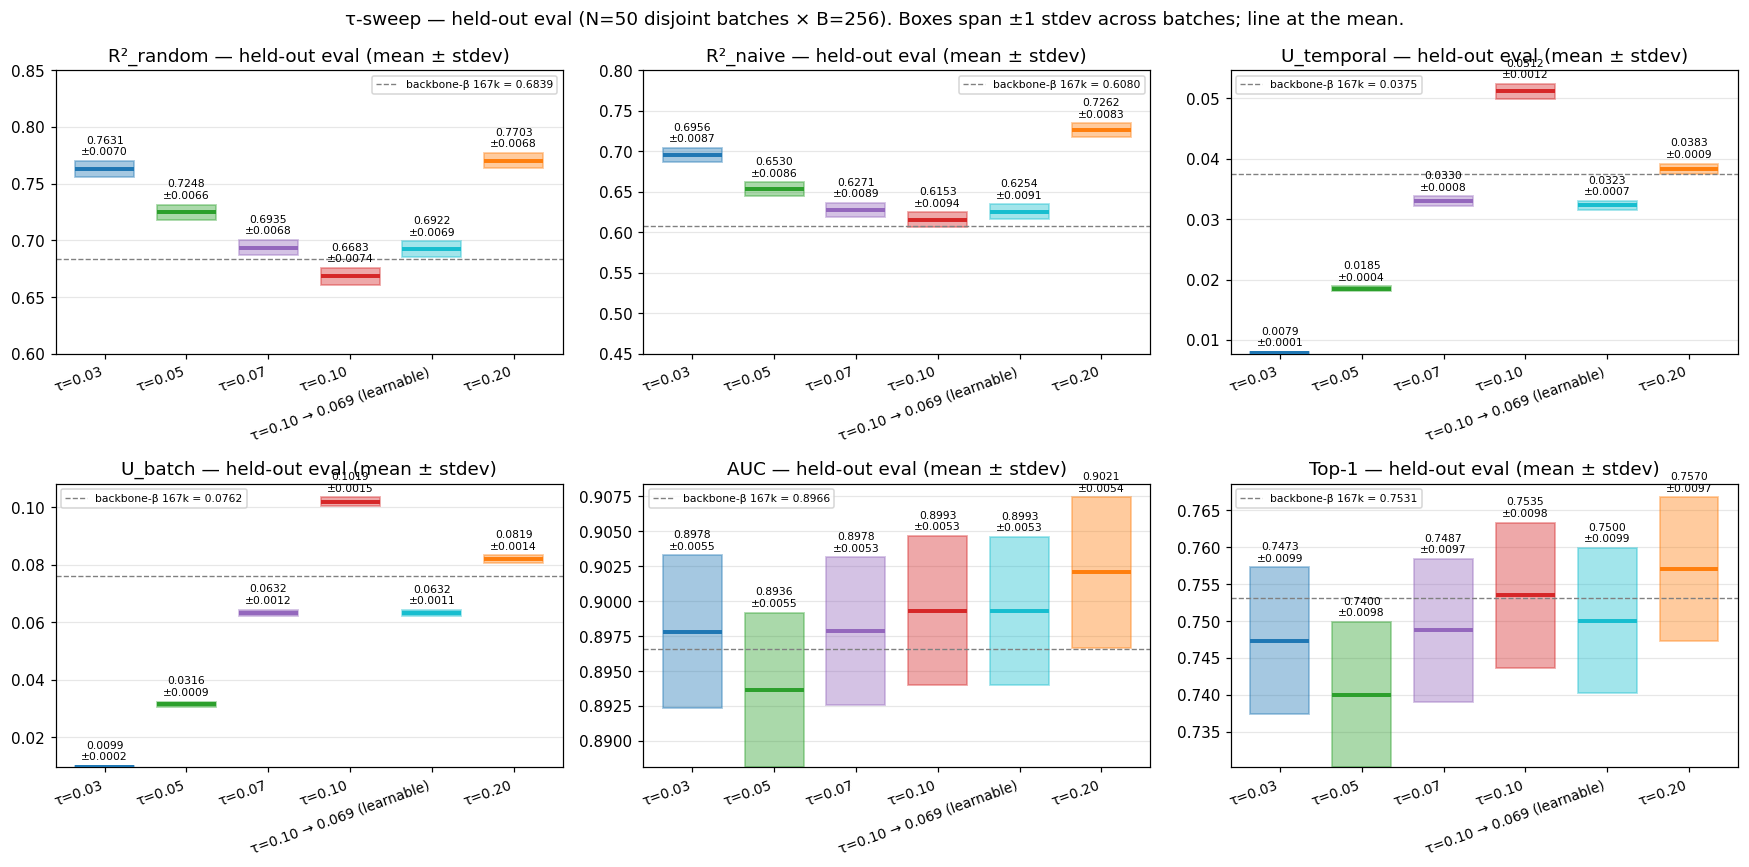
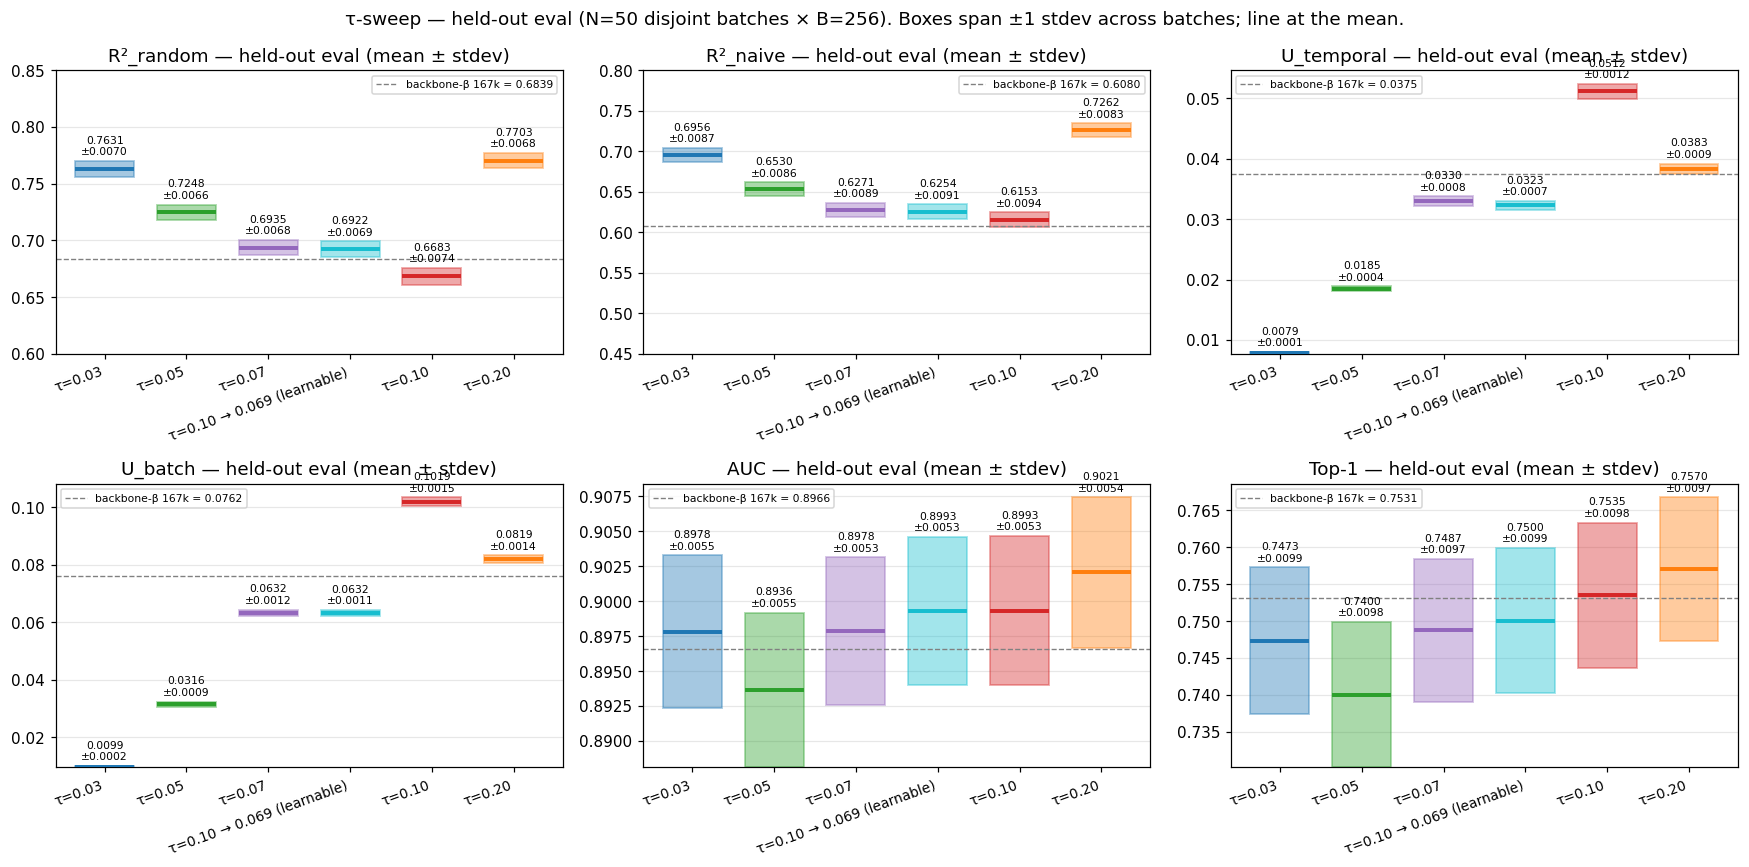
plot(tau-sweep): place learnable arm at converged-τ position; τ=0.50 launcher
- Plot ARMS reorder: learnable-τ arm moved to between τ=0.07 and τ=0.10.
  Behaviour matches its converged value (≈ 0.069 ≈ τ=0.07), not its
  init (0.10), so visually positioning it adjacent to τ=0.07 makes the
  fixed-vs-learnable comparison readable. Label still leads with init
  (per the project rule "label by configured input").
- RESULTS.md held-out table reordered to match. Caption updated.
- Verdict trimmed: dropped speculation about a wider-init learnable-τ
  sweep (deprioritised in favour of fixed τ-sweep extension above 0.20).
- New launcher: `run_tau_0_50_elisa.sh` — same recipe as the other
  τ-sweep arms, only --tau differs (0.50). Will run on elisa GPU 1
  after `learnable_0_20` completes.
- Open list updated: τ=0.30 (in flight on vast DC), τ=0.50 (queued
  next on elisa), τ=0.80 (queued after).

«Agent Opus 4.7 (1M context) writing»

diff --git a/experiments/2026-05-08_exp_tau_sweep/scripts/plot_tau_sweep_multisample.py b/experiments/2026-05-08_exp_tau_sweep/scripts/plot_tau_sweep_multisample.py
@@ -26,18 +26,17 @@ DEFAULT_CSV = REPO / "experiments/2026-05-08_exp_tau_sweep/results/tau_sweep_met
 OUT = REPO / "experiments/2026-05-08_exp_tau_sweep/plots/tau_sweep_eval_multisample.png"
 OUT.parent.mkdir(parents=True, exist_ok=True)
 
-# Display arms in τ-numerical order with τ=0.10 and learnable_τ_init0.10
-# adjacent (they start from the same τ at init / nominal training value, so
-# placing them next to each other in the legend / x-axis order makes the
-# fixed-vs-learnable comparison readable). Single τ=0.20 entry uses the v2
+# Display arms in τ-numerical order, with the learnable-τ arm placed
+# adjacent to its CONVERGED value (τ ≈ 0.069 ≈ τ=0.07) — its behaviour
+# matches its converged τ, not its init. Single τ=0.20 entry uses the v2
 # checkpoint (the run that has both FINAL.pth and full trajectory CSV).
 ARMS = [
-    ("τ=0.03",            "tau_sweep_0_03",           "#1f77b4"),
-    ("τ=0.05",            "tau_sweep_0_05",           "#2ca02c"),
-    ("τ=0.07",            "tau_sweep_0_07",           "#9467bd"),
-    ("τ=0.10",            "tau_sweep_0_10",           "#d62728"),
+    ("τ=0.03",                     "tau_sweep_0_03",           "#1f77b4"),
+    ("τ=0.05",                     "tau_sweep_0_05",           "#2ca02c"),
+    ("τ=0.07",                     "tau_sweep_0_07",           "#9467bd"),
     ("τ=0.10 → 0.069 (learnable)", "tau_sweep_learnable_0_10", "#17becf"),
-    ("τ=0.20",            "tau_sweep_0_20_v2",        "#ff7f0e"),
+    ("τ=0.10",                     "tau_sweep_0_10",           "#d62728"),
+    ("τ=0.20",                     "tau_sweep_0_20_v2",        "#ff7f0e"),
 ]
 
 BETA = dict(r2_random=0.6839, r2_naive=0.6080, u_temporal=0.0375,

diff --git a/experiments/2026-05-08_exp_tau_sweep/scripts/plot_tau_sweep_v2.py b/experiments/2026-05-08_exp_tau_sweep/scripts/plot_tau_sweep_v2.py
@@ -28,20 +28,22 @@ SYNC_LEARN = REPO / "sync_tau_sweep_learnable/checkpoints"
 OUT_TRAJ = REPO / "experiments/2026-05-08_exp_tau_sweep/plots/tau_sweep_v2_trajectories.png"
 OUT_TRAJ.parent.mkdir(parents=True, exist_ok=True)
 
-# Arms in numerical-τ order with τ=0.10 and learnable_τ_init0.10 adjacent.
+# Arms in numerical-τ order, with the learnable-τ arm placed adjacent to
+# its CONVERGED value (τ ≈ 0.069 ≈ τ=0.07) — its behaviour matches its
+# converged τ, not its init.
 # (display_label, run_name, color, csv_path)
 ARMS = [
-    ("τ=0.03",            "tau_sweep_0_03",           "#1f77b4",
+    ("τ=0.03",                     "tau_sweep_0_03",           "#1f77b4",
      SYNC / "tau_sweep_0_03_losses.csv"),
-    ("τ=0.05",            "tau_sweep_0_05",           "#2ca02c",
+    ("τ=0.05",                     "tau_sweep_0_05",           "#2ca02c",
      SYNC / "tau_sweep_0_05_losses.csv"),
-    ("τ=0.07",            "tau_sweep_0_07",           "#9467bd",
+    ("τ=0.07",                     "tau_sweep_0_07",           "#9467bd",
      SYNC / "tau_sweep_0_07_losses.csv"),
-    ("τ=0.10",            "tau_sweep_0_10",           "#d62728",
-     SYNC / "tau_sweep_0_10_losses.csv"),
     ("τ=0.10 → 0.069 (learnable)", "tau_sweep_learnable_0_10", "#17becf",
      SYNC_LEARN / "tau_sweep_learnable_0_10_losses.csv"),
-    ("τ=0.20",            "tau_sweep_0_20_v2",        "#ff7f0e",
+    ("τ=0.10",                     "tau_sweep_0_10",           "#d62728",
+     SYNC / "tau_sweep_0_10_losses.csv"),
+    ("τ=0.20",                     "tau_sweep_0_20_v2",        "#ff7f0e",
      SYNC_V2 / "tau_sweep_0_20_v2_losses.csv"),
 ]
 

diff --git a/experiments/2026-05-08_exp_tau_sweep/RESULTS.md b/experiments/2026-05-08_exp_tau_sweep/RESULTS.md
@@ -97,16 +97,17 @@ learnable) above the sharper-τ pack. R²_random and R²_naive show
 ![multisample](plots/tau_sweep_eval_multisample.png)
 
 Six metric panels, one box per arm. Boxes span ±1 stdev across the 50
-batches; the line is at the mean. Arms are placed left-to-right τ=0.03
-→ 0.05 → 0.07 → 0.10 → learnable_τ_init0.10 → 0.20.
+batches; the line is at the mean. Arms are placed left-to-right by τ
+value, with the learnable-τ arm next to its converged value (≈ 0.07,
+not its 0.10 init): τ=0.03 → 0.05 → 0.07 → learnable → 0.10 → 0.20.
 
 | backbone                 | τ            | R²_random           | R²_naive            | U_t                 | U_b                 | AUC                 | Top-1               |
 |--------------------------|--------------|---------------------|---------------------|---------------------|---------------------|---------------------|---------------------|
 | tau_sweep_0_03           | 0.03         | 0.7631 ± 0.0070     | 0.6956 ± 0.0087     | 0.0079 ± 0.0001     | 0.0099 ± 0.0002     | 0.8978 ± 0.0055     | 0.7473 ± 0.0099     |
 | tau_sweep_0_05           | 0.05         | 0.7248 ± 0.0066     | 0.6530 ± 0.0086     | 0.0185 ± 0.0004     | 0.0316 ± 0.0009     | 0.8936 ± 0.0055     | 0.7400 ± 0.0098     |
 | tau_sweep_0_07           | 0.07         | 0.6935 ± 0.0068     | 0.6271 ± 0.0089     | 0.0330 ± 0.0008     | 0.0632 ± 0.0012     | 0.8978 ± 0.0053     | 0.7487 ± 0.0097     |
-| tau_sweep_0_10           | 0.10         | 0.6683 ± 0.0074     | 0.6153 ± 0.0094     | **0.0512 ± 0.0012** | **0.1019 ± 0.0015** | 0.8993 ± 0.0053     | 0.7535 ± 0.0098     |
 | tau_sweep_learnable_0_10 | 0.10 → 0.069 | 0.6922 ± 0.0069     | 0.6254 ± 0.0091     | 0.0323 ± 0.0007     | 0.0632 ± 0.0011     | 0.8993 ± 0.0053     | 0.7500 ± 0.0099     |
+| tau_sweep_0_10           | 0.10         | 0.6683 ± 0.0074     | 0.6153 ± 0.0094     | **0.0512 ± 0.0012** | **0.1019 ± 0.0015** | 0.8993 ± 0.0053     | 0.7535 ± 0.0098     |
 | tau_sweep_0_20           | 0.20         | **0.7703 ± 0.0068** | **0.7262 ± 0.0083** | 0.0383 ± 0.0009     | 0.0819 ± 0.0014     | **0.9021 ± 0.0054** | **0.7570 ± 0.0097** |
 
 (Source: [`results/tau_sweep_metrics_multisample.csv`](results/tau_sweep_metrics_multisample.csv).)
@@ -167,9 +168,7 @@ The **learnable-τ arm slid from init=0.10 to τ ≈ 0.069**
 with the converged τ value sitting just below 0.07. Within a single
 15k run, gradient pressure pulls τ down, not up to either of the soft
 optima. **Learnable-τ does not discover the τ=0.10 / τ=0.20 optimum
-from a 0.10 init.** A wider-init learnable-τ sweep (e.g. init=0.30,
-init=0.50) would test whether the learnable schedule can find the
-soft optimum from above.
+from a 0.10 init.**
 
 ### In-training vs held-out gap
 
@@ -193,9 +192,10 @@ populate this table at the next refresh.)
 
 ## Open
 
-- **τ=0.30 fixed arm** (in flight on vast DC 5090) and **τ=0.50 fixed
-  arm** (queued). Extend the sweep above 0.20 to test how far the
-  soft-τ improvement on R² / AUC / Top-1 keeps going.
+- **τ=0.30 fixed arm** (in flight on vast DC 5090), **τ=0.50** (queued
+  next on elisa), and **τ=0.80** (queued after). Extend the sweep
+  above 0.20 to test how far the soft-τ improvement on R² / AUC /
+  Top-1 keeps going.
 - **Proxy MASE per arm.** The
   [`scripts/run_tau_sweep_proxy.sh`](scripts/run_tau_sweep_proxy.sh)
   recipe trains an R3_E4 head on each backbone for downstream
@@ -205,6 +205,3 @@ populate this table at the next refresh.)
   `experiments/2026-05-05_exp_qhead_improvements/results/backbone_proxy_correlation.csv`
   is over a different set of 5 backbones (n=5, directional ρ);
   applying its conclusions to this sweep would be extrapolation.
-- **Wider-init learnable-τ sweep.** Test whether learnable τ
-  initialised above the soft optimum (e.g. init=0.30, 0.50) finds the
-  τ=0.10–0.20 region instead of sliding down to ~0.07.
